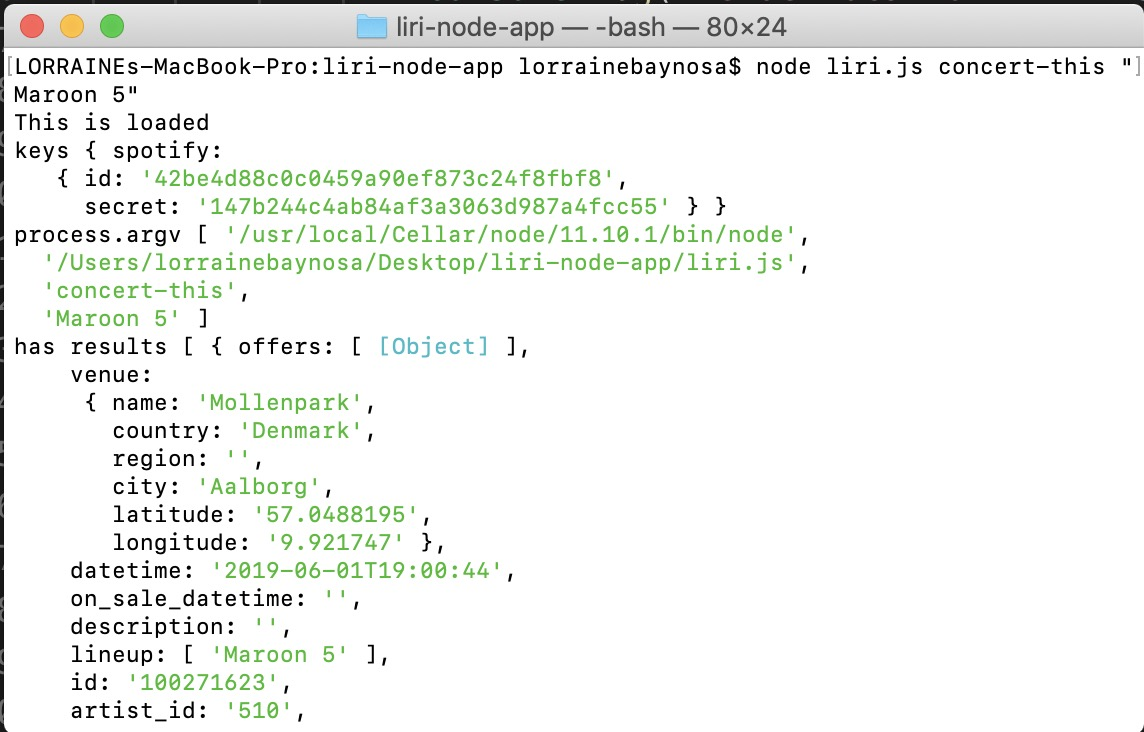
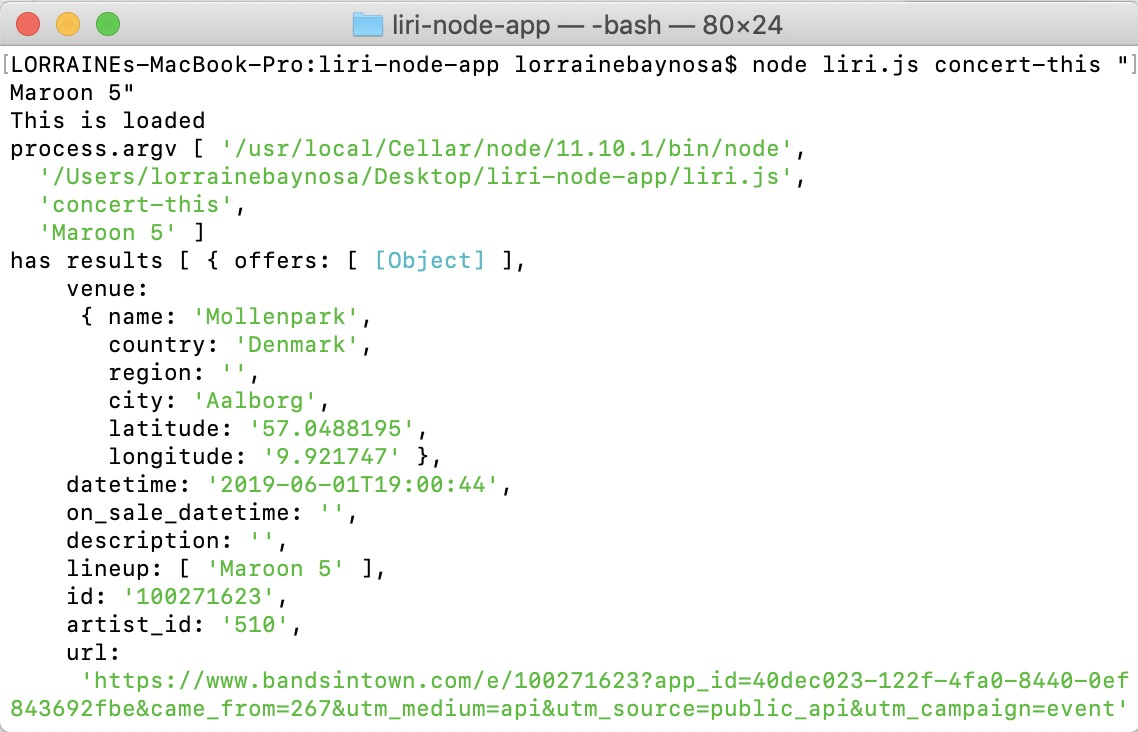
updating screenshots for spotify

Changed region(s): [[0.0, 0.0, 1.0, 1.0], [0.9842, 0.9918, 1.0, 1.0]]

diff --git a/liri.js b/liri.js
@@ -11,7 +11,7 @@ var axios = require("axios");
 var moment = require("moment");
 // import keys.js and store it in a variable; to access spotify keys
 var keys = require("./keys.js")
-console.log('keys', keys);
+// console.log('keys', keys);
 var Spotify = require("node-spotify-api");
 // Load the fs package to read and write
 var fs = require('fs');
@@ -128,7 +128,7 @@ function spotifyThisSong(song) {
             console.log("Artists: " + data.tracks.items[i].artists);
             console.log("Song's Name: " + data.tracks.items[i].name);
             console.log("Preview Link of Song from Spotify: " + data.tracks.items[i].preview_url);
-            console.log("Album Song is From: " + data.tracks.items[i].album);
+            console.log("Album Song is From: " + data.tracks.items[i].album.name);
         }
     });
 }

diff --git a/README.md b/README.md
@@ -19,7 +19,7 @@ What each command should do:
      * Venue location
      * Date of the Event (use moment to format this as "MM/DD/YYYY")
    * Requires installation of [axios] (https://www.npmjs.com/package/axios) package and [moment] (http://momentjs.com/docs) to retrieve event information related to artist.
-2. example using command "concert-this" <artist/band name>, using Lifehouse as the band name:
+   * example using command "concert-this" <artist/band name>, using Lifehouse as the band name:
 
 
 <img src="images/concert-this_Lifehouse.jpg" width="800">
@@ -65,6 +65,30 @@ The information for each event for Maroon 5 displays on the terminal:
      * The album that the song is from
         * If no song is provided then your program will default to "The Sign" by Ace of Base.
    * Requires installation of [node-spotify-api](https://www.npmjs.com/package/node-spotify-api) package to retrieve song information from the Spotify API.
+   * example using command "spotify-this-song" '<song name here>' using "Thriller" as the song: 
+
+
+
+<img src="images/spotify-this-song_Thriller1.jpg" width="800">
+![](images/spotify-this-song_Thriller1.jpg)
+
+
+
+<img src="images/spotify-this-song_Thriller2.jpg" width="800">
+![](images/spotify-this-song_Thriller2.jpg)
+
+
+
+<img src="images/spotify-this-song_Thriller3.jpg" width="800">
+![](images/spotify-this-song_Thriller3.jpg)
+
+The information for each song displays on the terminal:
+
+
+
+<img src="images/spotify-this-song_Thriller_data.jpg" width="800">
+![](images/spotify-this-song_Thriller_data.jpg)
+
 
 3. `node liri.js movie-this '<movie name here>'`
    * renders the following information about the movie to the terminal
